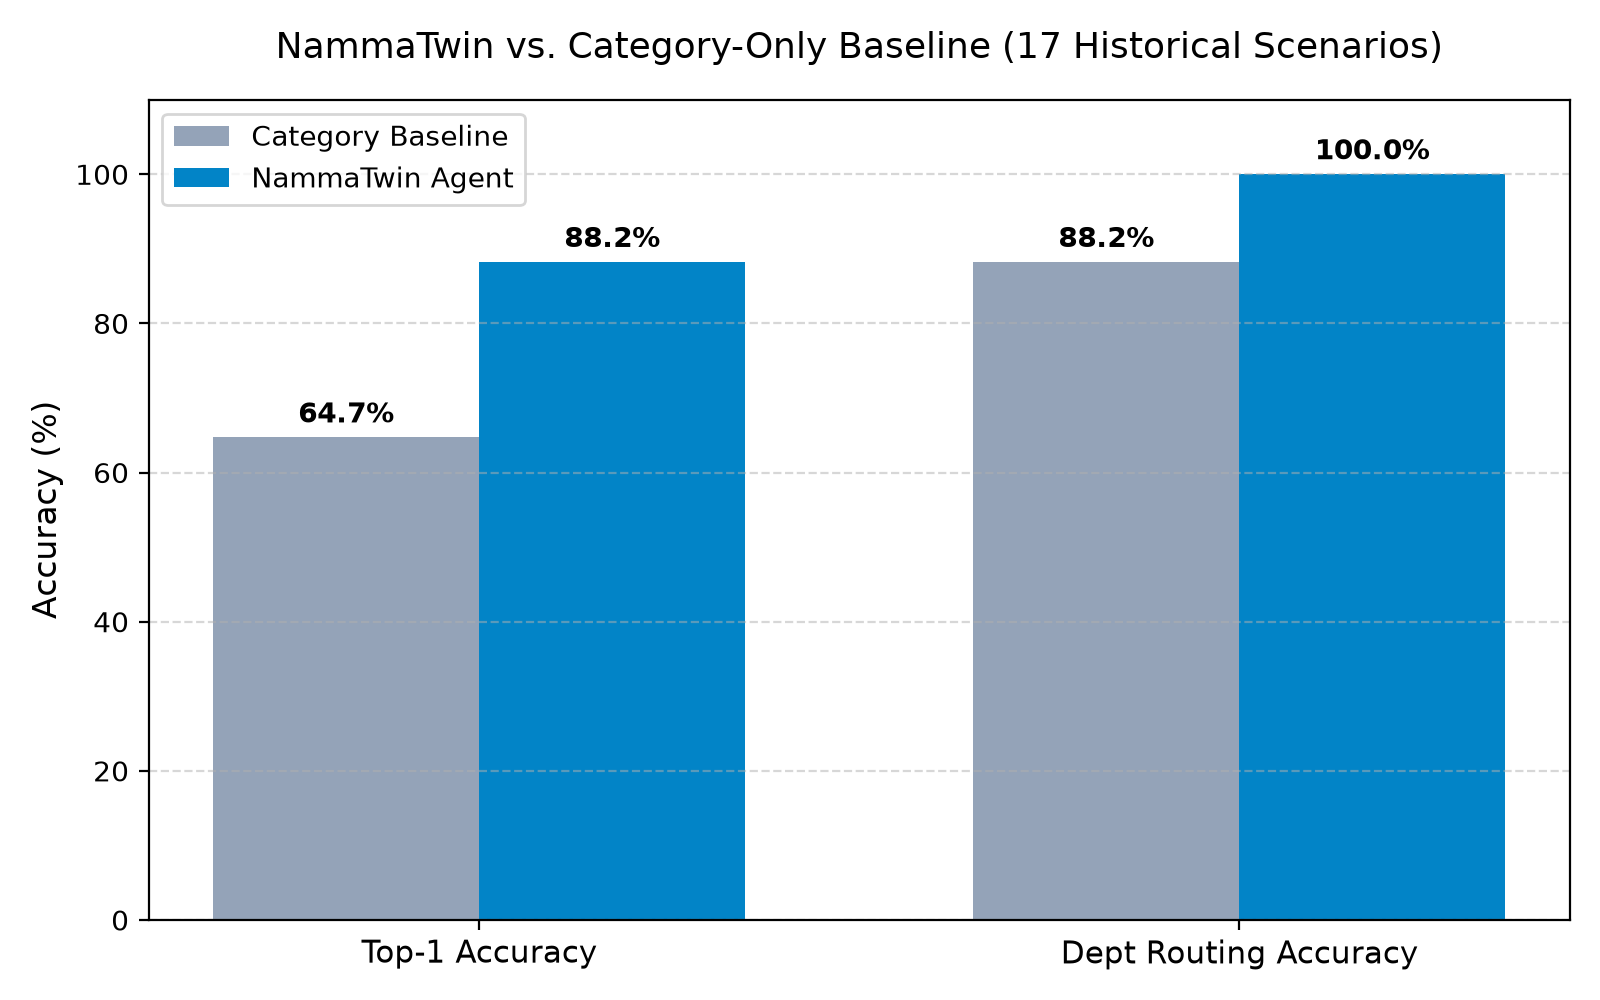
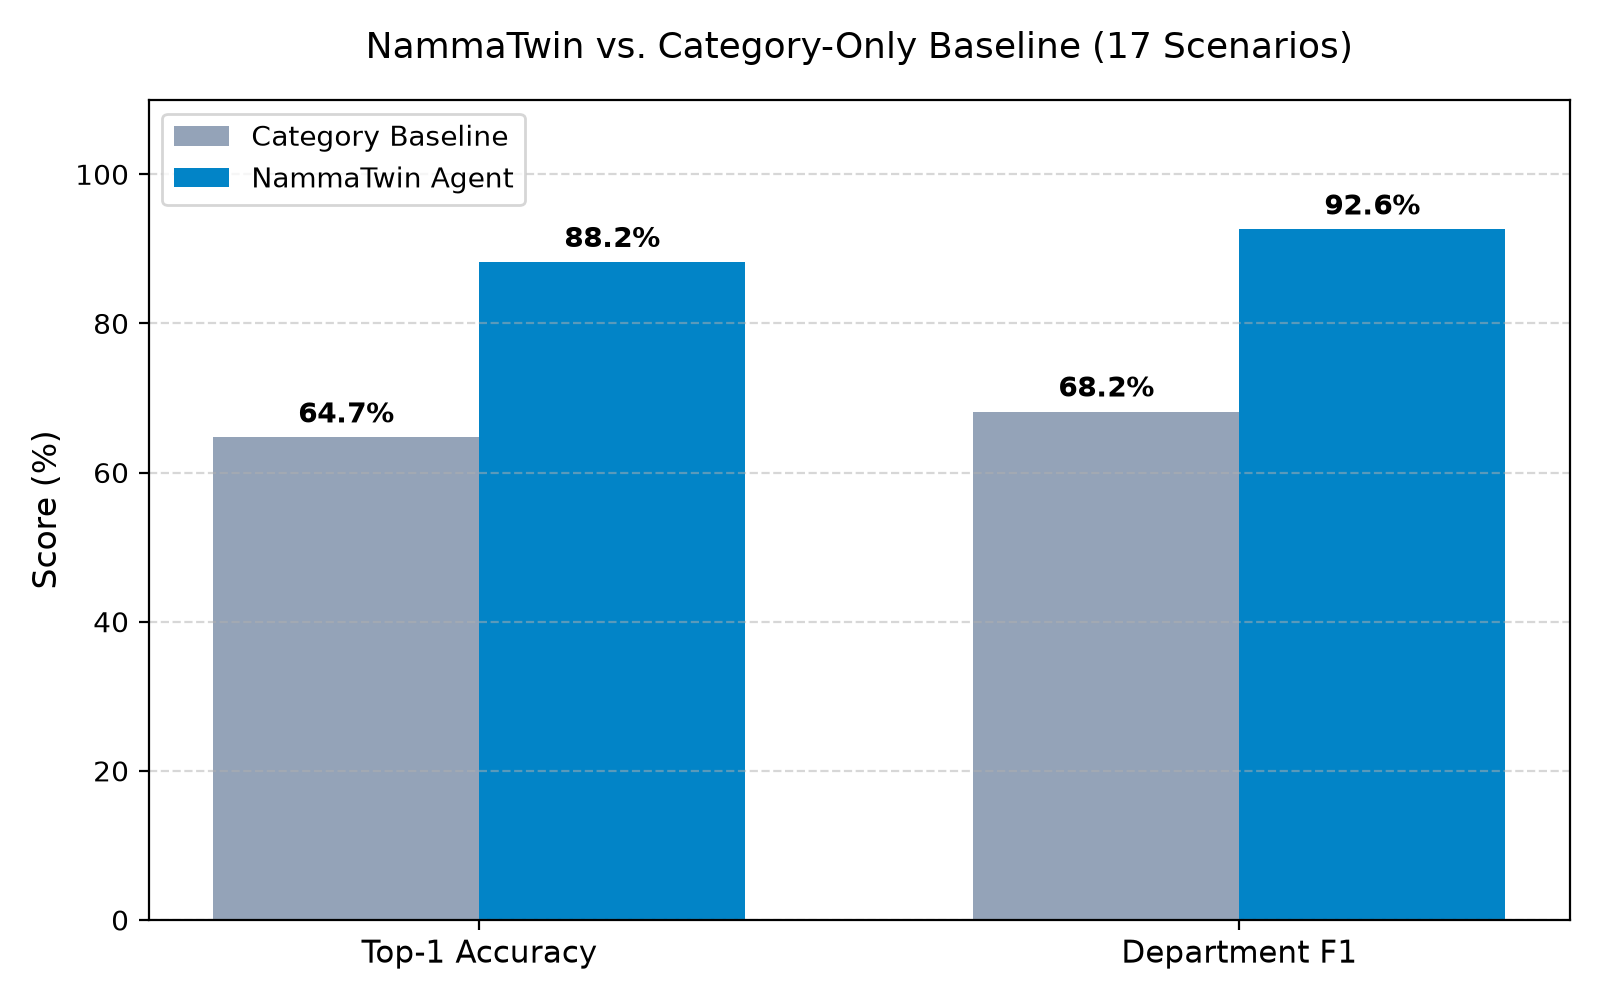
fix(eval): update department routing metrics to evaluate top-1 cause and add F1 calculation

diff --git a/backtest/eval.py b/backtest/eval.py
@@ -64,13 +64,13 @@ def evaluate_single_scenario(scenario: dict[str, Any]) -> dict[str, Any]:
     pred_top2 = ranked[1][0].value if len(ranked) > 1 else pred_top1
     confidence = ranked[0][1]
 
-    # Predict departments from top-2 hypotheses
+    # Route from the leading cause only. Including the runner-up makes the
+    # routing result look better by adding speculative departments.
     pred_depts = set()
-    for hyp, _ in ranked[:2]:
-        for d in HYPOTHESIS_DEPARTMENTS.get(hyp, []):
-            norm = DEPT_CANONICAL_MAP.get(d.lower().strip())
-            if norm:
-                pred_depts.add(norm)
+    for d in HYPOTHESIS_DEPARTMENTS.get(ranked[0][0], []):
+        norm = DEPT_CANONICAL_MAP.get(d.lower().strip())
+        if norm:
+            pred_depts.add(norm)
 
     baseline_pred, baseline_depts = compute_baseline_prediction(tickets)
 
@@ -97,6 +97,9 @@ def calculate_metrics(predictions: list[dict[str, Any]]) -> dict[str, float]:
     dept_correct = 0
     baseline_top1_correct = 0
     baseline_dept_correct = 0
+    dept_tp = dept_fp = dept_fn = 0
+    baseline_dept_tp = baseline_dept_fp = baseline_dept_fn = 0
+    dept_exact = baseline_dept_exact = 0
 
     confidences_correct: list[float] = []
     confidences_incorrect: list[float] = []
@@ -115,14 +118,26 @@ def calculate_metrics(predictions: list[dict[str, Any]]) -> dict[str, float]:
         if gt_h in (p["pred_top1"], p["pred_top2"]):
             top2_correct += 1
 
-        if any(d in gt_d for d in p["pred_depts"]):
+        pred_d = set(p["pred_depts"])
+        baseline_d = set(p["baseline_depts"])
+        if pred_d & gt_d:
             dept_correct += 1
+        if pred_d == gt_d:
+            dept_exact += 1
+        dept_tp += len(pred_d & gt_d)
+        dept_fp += len(pred_d - gt_d)
+        dept_fn += len(gt_d - pred_d)
 
         if p["baseline_pred"] == gt_h:
             baseline_top1_correct += 1
 
         if any(d in gt_d for d in p["baseline_depts"]):
             baseline_dept_correct += 1
+        if baseline_d == gt_d:
+            baseline_dept_exact += 1
+        baseline_dept_tp += len(baseline_d & gt_d)
+        baseline_dept_fp += len(baseline_d - gt_d)
+        baseline_dept_fn += len(gt_d - baseline_d)
 
     mean_conf_corr = (
         sum(confidences_correct) / len(confidences_correct) if confidences_correct else 0.0
@@ -131,13 +146,32 @@ def calculate_metrics(predictions: list[dict[str, Any]]) -> dict[str, float]:
         sum(confidences_incorrect) / len(confidences_incorrect) if confidences_incorrect else 0.0
     )
 
+    def prf(tp: int, fp: int, fn: int) -> tuple[float, float, float]:
+        precision = tp / (tp + fp) if tp + fp else 0.0
+        recall = tp / (tp + fn) if tp + fn else 0.0
+        f1 = 2 * precision * recall / (precision + recall) if precision + recall else 0.0
+        return precision, recall, f1
+
+    dept_precision, dept_recall, dept_f1 = prf(dept_tp, dept_fp, dept_fn)
+    baseline_dept_precision, baseline_dept_recall, baseline_dept_f1 = prf(
+        baseline_dept_tp, baseline_dept_fp, baseline_dept_fn
+    )
+
     return {
         "total_scenarios": float(total),
         "top1_accuracy": top1_correct / total,
         "top2_accuracy": top2_correct / total,
         "dept_routing_accuracy": dept_correct / total,
+        "dept_exact_match": dept_exact / total,
+        "dept_precision": dept_precision,
+        "dept_recall": dept_recall,
+        "dept_f1": dept_f1,
         "baseline_top1_accuracy": baseline_top1_correct / total,
         "baseline_dept_accuracy": baseline_dept_correct / total,
+        "baseline_dept_exact_match": baseline_dept_exact / total,
+        "baseline_dept_precision": baseline_dept_precision,
+        "baseline_dept_recall": baseline_dept_recall,
+        "baseline_dept_f1": baseline_dept_f1,
         "mean_confidence_correct": mean_conf_corr,
         "mean_confidence_incorrect": mean_conf_inc,
     }
@@ -174,6 +208,8 @@ def main() -> None:
     print(f"{'Top-1 Root Cause Accuracy':<35} | {m['top1_accuracy']:>10.1%} | {m['baseline_top1_accuracy']:>8.1%}")
     print(f"{'Top-2 Root Cause Accuracy':<35} | {m['top2_accuracy']:>10.1%} | {'N/A':>8}")
     print(f"{'Department Routing Accuracy':<35} | {m['dept_routing_accuracy']:>10.1%} | {m['baseline_dept_accuracy']:>8.1%}")
+    print(f"{'Department Exact Match':<35} | {m['dept_exact_match']:>10.1%} | {m['baseline_dept_exact_match']:>8.1%}")
+    print(f"{'Department Micro F1':<35} | {m['dept_f1']:>10.1%} | {m['baseline_dept_f1']:>8.1%}")
     print("-" * 65)
     print(f"{'Mean Confidence (Correct Top-1)':<35} | {m['mean_confidence_correct']:>10.1%} | {'N/A':>8}")
     print(f"{'Mean Confidence (Incorrect)':<35} | {m['mean_confidence_incorrect']:>10.1%} | {'N/A':>8}")

diff --git a/backtest/report.py b/backtest/report.py
@@ -24,9 +24,9 @@ def generate_report(eval_results: dict[str, Any], output_dir: Optional[Path] = N
     # 2. Render matplotlib bar chart: Baseline vs NammaTwin
     m = eval_results["metrics"]
 
-    categories = ["Top-1 Accuracy", "Dept Routing Accuracy"]
-    nammatwin_scores = [m["top1_accuracy"] * 100, m["dept_routing_accuracy"] * 100]
-    baseline_scores = [m["baseline_top1_accuracy"] * 100, m["baseline_dept_accuracy"] * 100]
+    categories = ["Top-1 Accuracy", "Department F1"]
+    nammatwin_scores = [m["top1_accuracy"] * 100, m["dept_f1"] * 100]
+    baseline_scores = [m["baseline_top1_accuracy"] * 100, m["baseline_dept_f1"] * 100]
 
     x = range(len(categories))
     width = 0.35
@@ -35,8 +35,12 @@ def generate_report(eval_results: dict[str, Any], output_dir: Optional[Path] = N
     rects1 = ax.bar([i - width / 2 for i in x], baseline_scores, width, label="Category Baseline", color="#94a3b8")
     rects2 = ax.bar([i + width / 2 for i in x], nammatwin_scores, width, label="NammaTwin Agent", color="#0284c7")
 
-    ax.set_ylabel("Accuracy (%)", fontsize=12)
-    ax.set_title("NammaTwin vs. Category-Only Baseline (17 Historical Scenarios)", fontsize=13, pad=15)
+    ax.set_ylabel("Score (%)", fontsize=12)
+    ax.set_title(
+        f"NammaTwin vs. Category-Only Baseline ({int(m['total_scenarios'])} Scenarios)",
+        fontsize=13,
+        pad=15,
+    )
     ax.set_xticks(list(x))
     ax.set_xticklabels(categories, fontsize=11)
     ax.set_ylim(0, 110)

diff --git a/tests/A5/test_eval.py b/tests/A5/test_eval.py
@@ -82,6 +82,10 @@ def test_metrics_calculation_handmade_set():
     assert abs(metrics["top1_accuracy"] - (1.0 / 3.0)) < 1e-4
     assert abs(metrics["top2_accuracy"] - (2.0 / 3.0)) < 1e-4
     assert abs(metrics["dept_routing_accuracy"] - (2.0 / 3.0)) < 1e-4
+    assert abs(metrics["dept_precision"] - (2.0 / 3.0)) < 1e-4
+    assert abs(metrics["dept_recall"] - 0.4) < 1e-4
+    assert abs(metrics["dept_f1"] - 0.5) < 1e-4
+    assert metrics["dept_exact_match"] == 0.0
     assert abs(metrics["baseline_top1_accuracy"] - (1.0 / 3.0)) < 1e-4
     assert metrics["mean_confidence_correct"] > metrics["mean_confidence_incorrect"]
 
@@ -95,3 +99,11 @@ def test_eval_runs_offline_under_60s():
     assert "metrics" in results
     assert results["metrics"]["top1_accuracy"] >= 0.70
     assert results["metrics"]["top2_accuracy"] >= 0.85
+
+
+def test_department_prediction_uses_only_top_cause():
+    results = run_eval(Path("backtest/scenarios"))
+    by_id = {p["scenario_id"]: p for p in results["predictions"]}
+    # The runner-up for this pipe burst is DRAIN_BLOCKAGE, whose departments
+    # must not be added to the primary route.
+    assert set(by_id["scen_pipe_ejipura_10"]["pred_depts"]) == {"water_board"}
